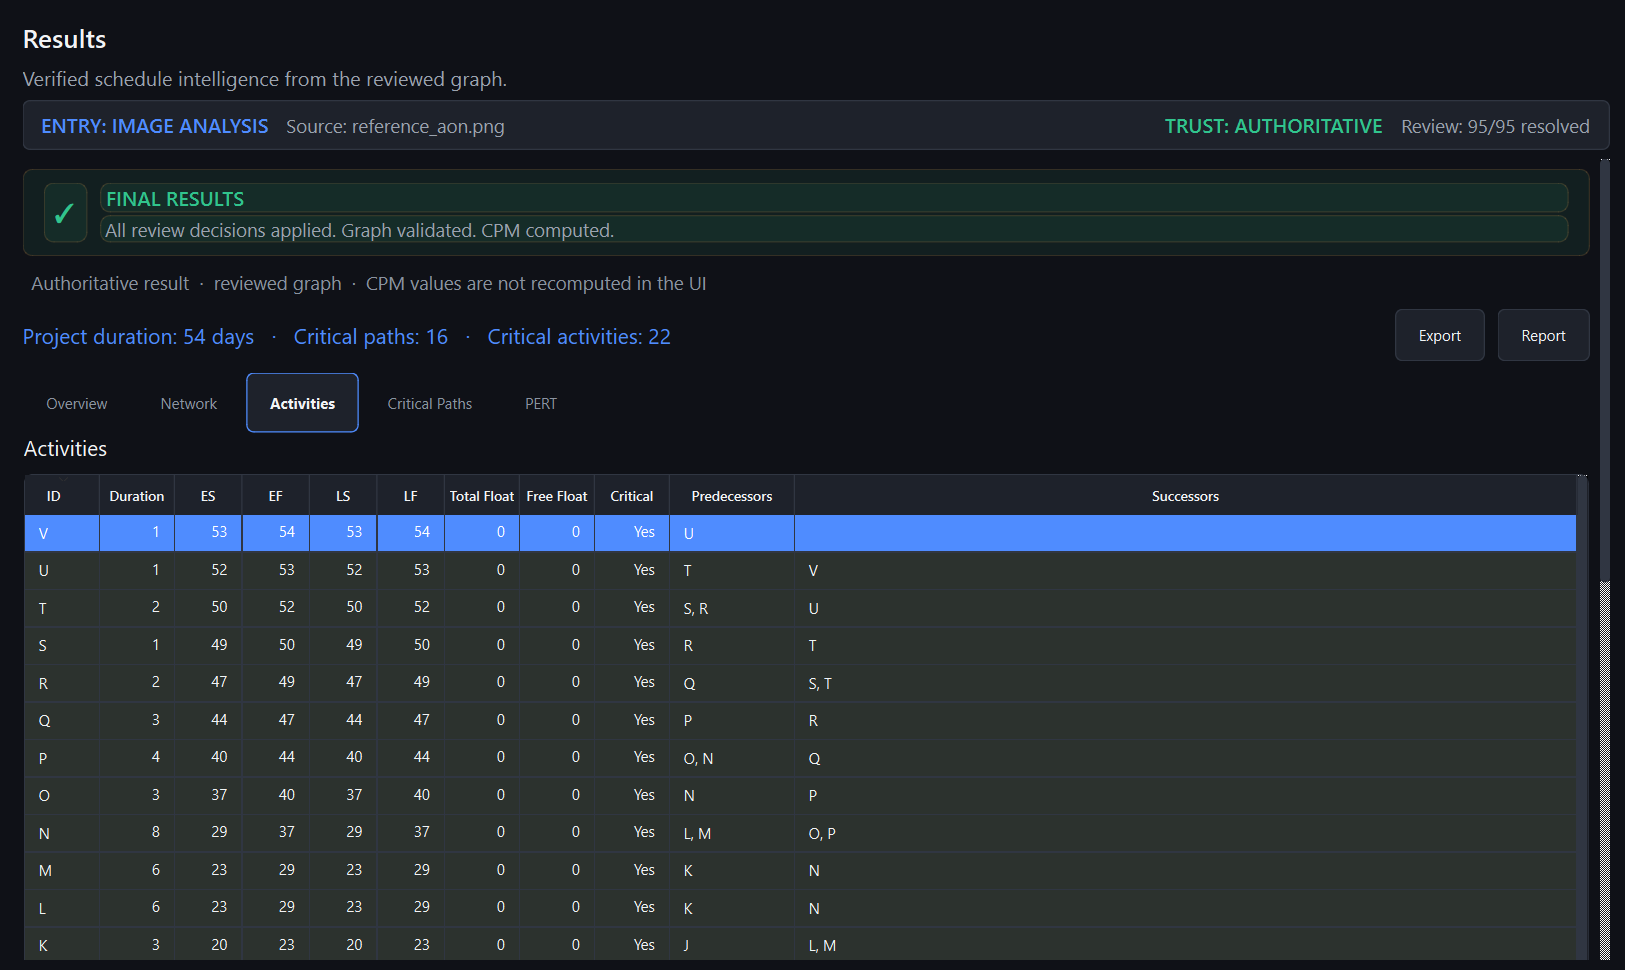
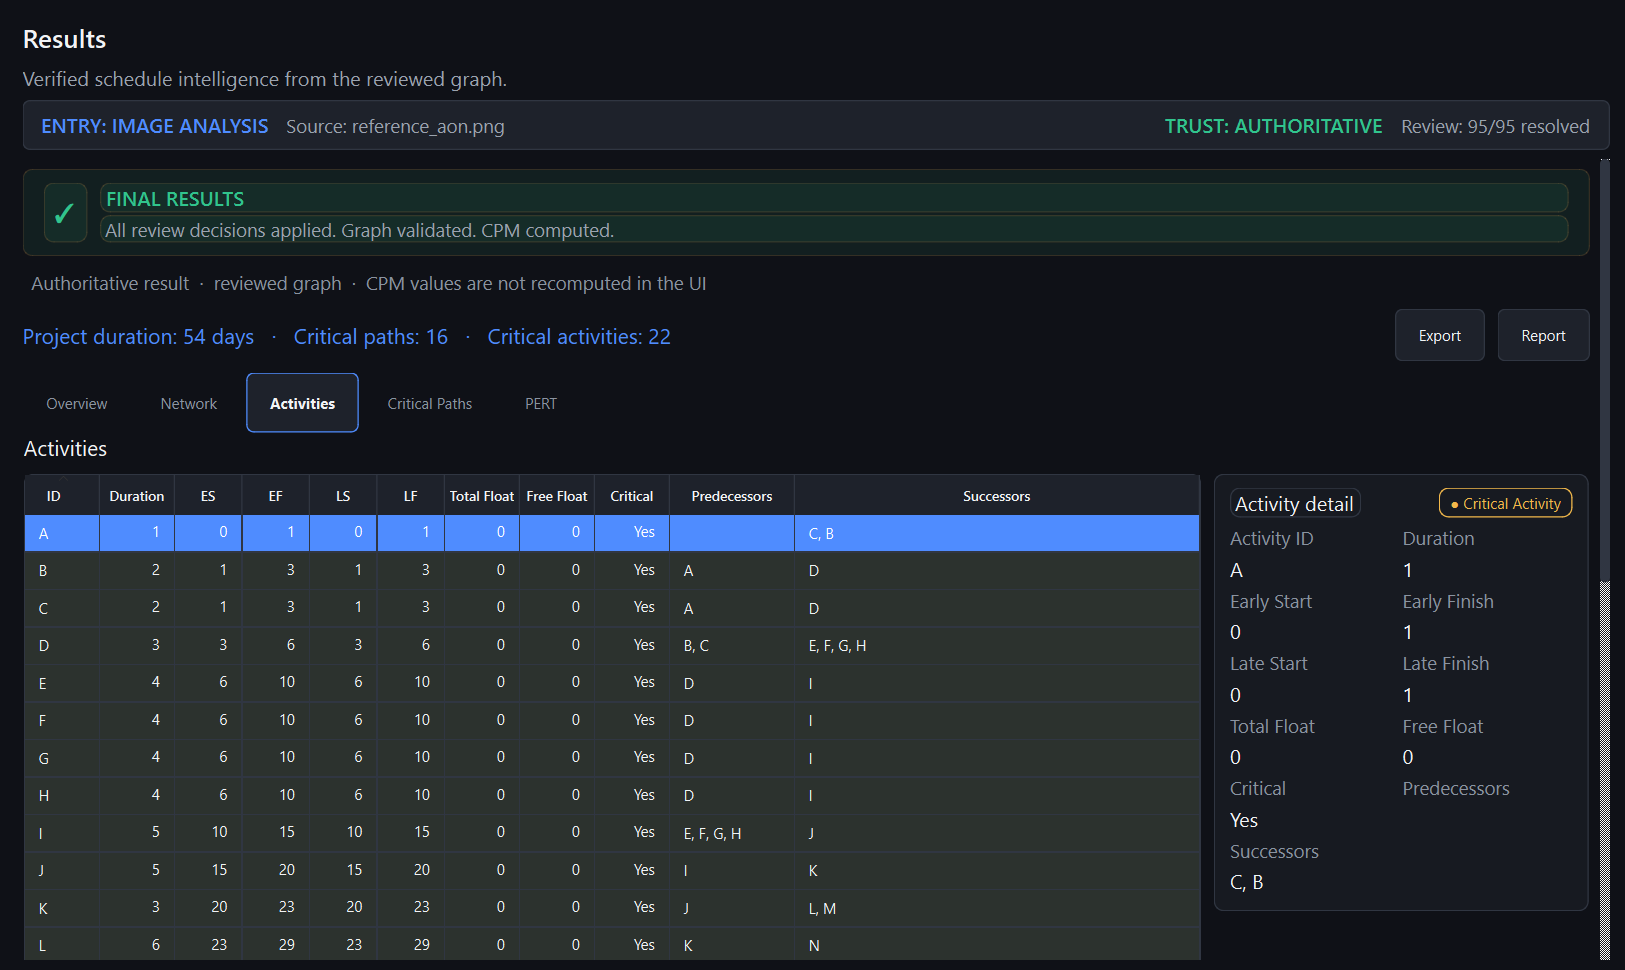
batch 6: Activities tab — horizontal split + A->V default order
- ascending default sort indicator; populated rows re-sort by it so the
  table opens on the scan order (A->V) instead of the header's descending
  default, and the auto-selected row is 'A'
- table and detail panel now sit side by side: the table owns the full
  page height (internal scroll) instead of 93px; the read-only detail
  panel (11 fields + critical badge) is always visible beside it,
  width-capped 300..340, top-aligned; value grid columns stretch
- regenerate 08 capture: first screen now shows 12+ rows AND the whole
  detail panel (previously the panel was below the fold entirely)

diff --git a/pert_analyzer/gui/results/activities.py b/pert_analyzer/gui/results/activities.py
@@ -94,6 +94,10 @@ class ActivitiesTab(QWidget):
         for col in (0, 1, 2, 3, 4, 5, 6, 7, 8):
             header.resizeSection(col, 54 if col in (2, 3, 4, 5) else 60)
         header.setStretchLastSection(True)
+        # Default sort indicator: later clicks start ascending.  Populated rows
+        # are re-sorted by this indicator in set_data, so the table opens on
+        # the scan order (A -> V) instead of the header's descending default.
+        header.setSortIndicator(0, Qt.SortOrder.AscendingOrder)
         self._table.setStyleSheet(
             f"QTableWidget {{ background-color: {SURFACE};"
             f" border: 1px solid {BORDER}; border-radius: 8px;}}"
@@ -118,9 +122,23 @@ class ActivitiesTab(QWidget):
         self._empty_label.setWordWrap(True)
         self._empty_label.hide()
         root.addWidget(self._empty_label)
-        root.addWidget(self._table, stretch=2)
 
-        root.addWidget(self._build_detail_panel())
+        # Horizontal split: the table owns the full page height (scrolls
+        # internally instead of being squeezed by the detail block below it),
+        # and the read-only detail panel sits beside it, always visible.
+        panel = self._build_detail_panel()
+        panel.setMinimumWidth(300)
+        panel.setMaximumWidth(340)
+        split = QHBoxLayout()
+        split.setContentsMargins(0, 0, 0, 0)
+        split.setSpacing(10)
+        split.addWidget(self._table, stretch=1)
+        side = QVBoxLayout()
+        side.setContentsMargins(0, 0, 0, 0)
+        side.addWidget(panel)
+        side.addStretch(1)
+        split.addLayout(side)
+        root.addLayout(split, stretch=1)
 
     def _build_detail_panel(self) -> QWidget:
         panel = QFrame()
@@ -178,6 +196,10 @@ class ActivitiesTab(QWidget):
             grid.addWidget(lab, row * 2, column * 2)
             grid.addWidget(value, row * 2 + 1, column * 2)
             self._detail_fields[key] = value
+        # value columns take the leftover panel width so long lists
+        # ("S, R", "O, P") wrap inside the column instead of widening it
+        grid.setColumnStretch(1, 1)
+        grid.setColumnStretch(3, 1)
         layout.addLayout(grid)
         return panel
 
